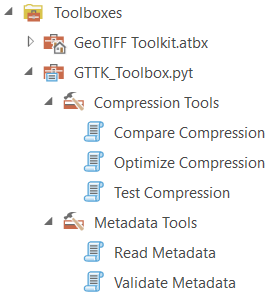
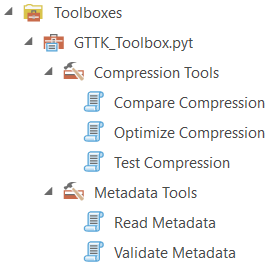
update README documents for clarity

diff --git a/gttk/utils/validation/README.md b/gttk/utils/validation/README.md
@@ -599,8 +599,8 @@ xpath = "//idinfo/citation/citeinfo/title"
 # Select attribute value
 xpath = "//gmd:MD_ScopeCode/@codeListValue"
 
-# Select with multiple predicates
-xpath = "//gmd:CI_ResponsibleParty[gmd:role/gmd:CI_RoleCode/@codeListValue='pointOfContact']/gmd:contactInfo//gmd:URL"
+# Select with predicate(s)
+xpath = "//gmd:CI_ResponsibleParty[gmd:role/gmd:CI_RoleCode/@codeListValue='pointOfContact']/gmd:contactInfo/gmd:CI_Contact/gmd:address/gmd:CI_Address/gmd:city/gco:CharacterString"
 
 # Select from specific position
 xpath = "//gmd:keyword[1]/gco:CharacterString"
@@ -743,10 +743,11 @@ Validation creates an output folder containing:
 
 ```
 {input_basename}_validation/
-├── validation_results.json   # Complete results with metadata and rule outcomes
-├── validation_map.gpkg       # GeoPackage with file footprints for GIS
-├── file1_PASS.html          # Individual report (if --write-reports)
-└── file2_FAIL.html          # Individual report with failures
+├── {input_basename}_validation_results.json  # Complete results with metadata and rules
+├── {input_basename}_validation_map.gpkg      # GeoPackage with file footprints for GIS
+└── reports/                                  # Individual reports (if `--write-reports=True`)
+    ├── file1_PASS.html  # File passed
+    └── file2_FAIL.html  # File failed
 ```
 
 ---
